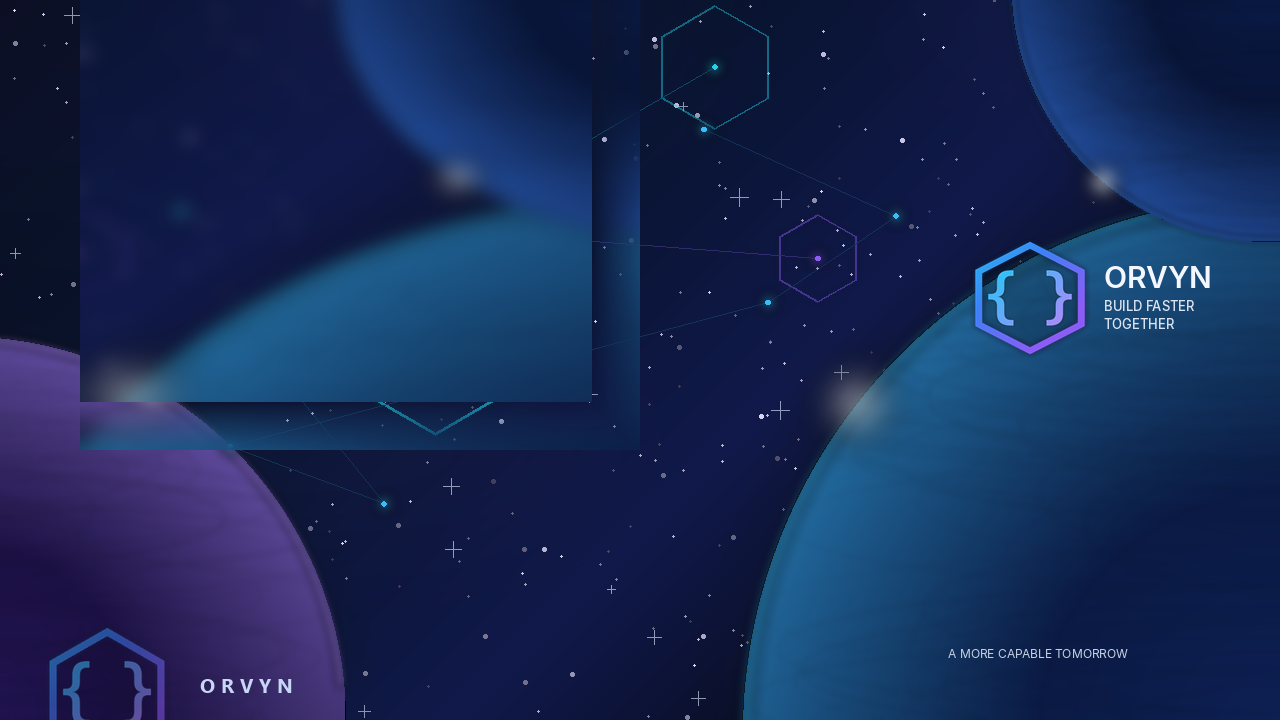
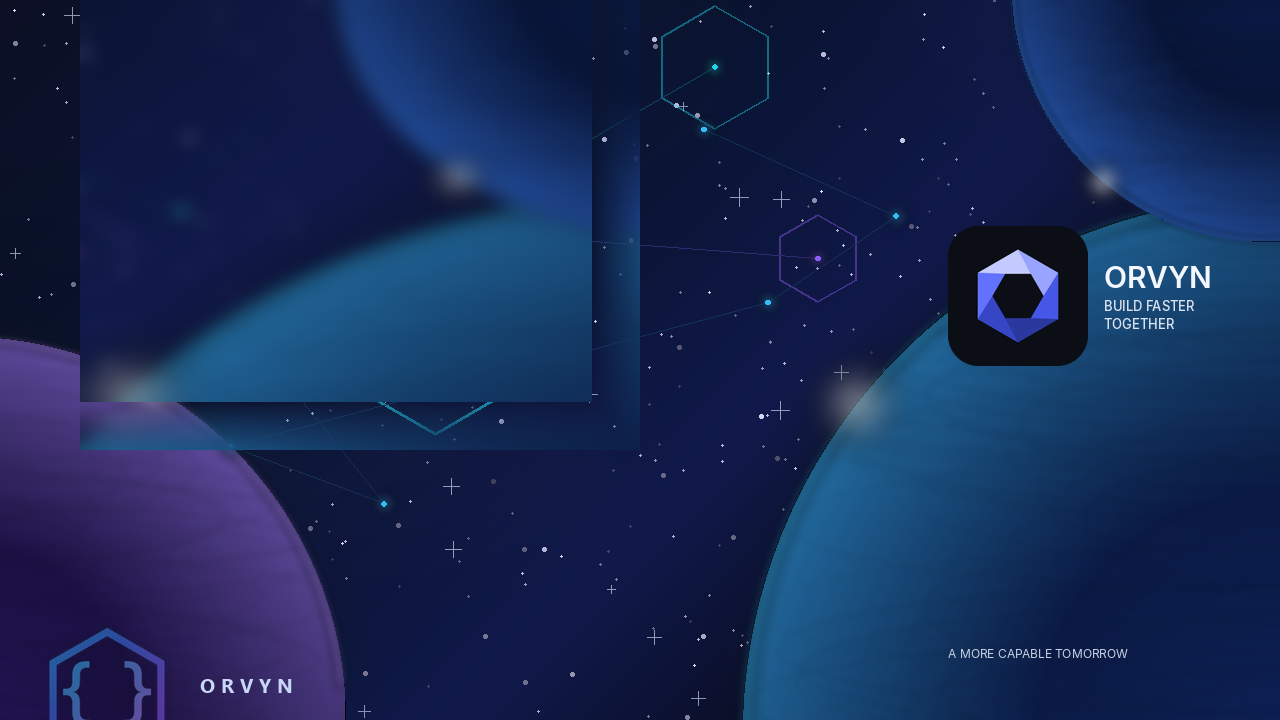
Use the brand mark on the cloud desktop and keep Take Control responsive.
The left panel painted as a black box without a compositor, and transparent dock icons turned into beige tiles. Pointer moves were queued ahead of clicks.

Changed region(s): [[0.7188, 0.3056, 0.875, 0.5194]]

diff --git a/apps/backend/src/desktop/sandboxDesktop.ts b/apps/backend/src/desktop/sandboxDesktop.ts
@@ -119,6 +119,25 @@ export function usesCachedFrame(quality: FrameQuality): boolean {
   return quality !== "high";
 }
 
+/** Serve a frame we already read instead of starting another docker exec. */
+export const MEMORY_FRAME_MS = 200;
+
+export function memoryFrameIsFresh(at: number, now: number, bytes: number): boolean {
+  return bytes > 1000 && now - at < MEMORY_FRAME_MS;
+}
+
+interface MemoryFrame {
+  jpeg: Buffer;
+  at: number;
+  pending?: Promise<Buffer | null>;
+}
+
+const memoryFrames = new Map<string, MemoryFrame>();
+
+function dropMemoryFrame(id: string): void {
+  memoryFrames.delete(id);
+}
+
 export async function startSandboxDesktop(opts: {
   tenantId: string;
   projectRoot?: string;
@@ -214,6 +233,7 @@ export async function startSandboxDesktop(opts: {
   session.status = "ready";
   session.startedAt = new Date().toISOString();
   sessions.set(id, session);
+  openInputPipe(session);
   return session;
 }
 
@@ -229,10 +249,41 @@ function qualityArgs(quality: FrameQuality): string[] {
 
 const frameInFlight = new Map<string, Promise<Buffer | null>>();
 
+async function pullContainerFrame(session: SandboxDesktopSession): Promise<Buffer | null> {
+  const cached = await dockerExec(session.containerId, ["timeout", "2", "cat", CACHED_FRAME_PATH], 3000);
+  const ready = jpegFromOutput(cached.stdout);
+  const slot = memoryFrames.get(session.id) ?? { jpeg: Buffer.alloc(0), at: 0 };
+  if (ready && ready.length > 1000) {
+    slot.jpeg = ready;
+    slot.at = Date.now();
+    memoryFrames.set(session.id, slot);
+    return ready;
+  }
+  return null;
+}
+
+function scheduleContainerFrame(session: SandboxDesktopSession): Promise<Buffer | null> {
+  const hit = memoryFrames.get(session.id);
+  if (hit?.pending) return hit.pending;
+  const pending = pullContainerFrame(session).finally(() => {
+    const cur = memoryFrames.get(session.id);
+    if (cur?.pending === pending) cur.pending = undefined;
+  });
+  const slot = hit ?? { jpeg: Buffer.alloc(0), at: 0 };
+  slot.pending = pending;
+  memoryFrames.set(session.id, slot);
+  return pending;
+}
+
 async function grabFrame(session: SandboxDesktopSession, quality: FrameQuality): Promise<Buffer | null> {
   if (usesCachedFrame(quality)) {
-    const cached = await dockerExec(session.containerId, ["timeout", "2", "cat", CACHED_FRAME_PATH], 3000);
-    const ready = jpegFromOutput(cached.stdout);
+    const hit = memoryFrames.get(session.id);
+    if (hit && memoryFrameIsFresh(hit.at, Date.now(), hit.jpeg.length)) return hit.jpeg;
+    if (hit && hit.jpeg.length > 1000) {
+      void scheduleContainerFrame(session);
+      return hit.jpeg;
+    }
+    const ready = await scheduleContainerFrame(session);
     if (ready && ready.length > 1000) return ready;
   }
   const viaXwd = await dockerExec(
@@ -402,18 +453,31 @@ interface InputPipe {
 
 const inputPipes = new Map<string, InputPipe>();
 const inputMode = new Map<string, "pipe" | "exec">();
-const pendingMove = new Map<string, string>();
-const moveTimer = new Map<string, ReturnType<typeof setTimeout>>();
 
 function dropInputPipe(id: string): void {
-  const timer = moveTimer.get(id);
-  if (timer) clearTimeout(timer);
-  moveTimer.delete(id);
-  pendingMove.delete(id);
   inputMode.delete(id);
   const pipe = inputPipes.get(id);
   inputPipes.delete(id);
   if (pipe && !pipe.proc.killed) pipe.proc.kill();
+}
+
+function openInputPipe(session: SandboxDesktopSession): void {
+  if (!session.containerId) return;
+  const existing = inputPipes.get(session.id);
+  if (existing && !existing.dead) return;
+  const proc = spawn("docker", ["exec", "-i", session.containerId, "/usr/local/bin/orvyn-input"], {
+    windowsHide: true,
+    stdio: ["pipe", "ignore", "ignore"],
+  });
+  const pipe: InputPipe = { proc, dead: false };
+  inputPipes.set(session.id, pipe);
+  inputMode.set(session.id, "pipe");
+  const markDead = () => {
+    pipe.dead = true;
+    if (inputPipes.get(session.id)?.proc === proc) inputMode.set(session.id, "exec");
+  };
+  proc.on("error", markDead);
+  proc.on("exit", markDead);
 }
 
 async function desktopInputMode(session: SandboxDesktopSession): Promise<"pipe" | "exec"> {
@@ -427,31 +491,13 @@ async function desktopInputMode(session: SandboxDesktopSession): Promise<"pipe" 
 
 function writeInputLine(session: SandboxDesktopSession, line: string): boolean {
   let pipe = inputPipes.get(session.id);
-  if (!pipe || pipe.dead) {
-    const proc = spawn("docker", ["exec", "-i", session.containerId, "/usr/local/bin/orvyn-input"], {
-      windowsHide: true,
-      stdio: ["pipe", "ignore", "ignore"],
-    });
-    pipe = { proc, dead: false };
-    inputPipes.set(session.id, pipe);
-    const markDead = () => {
-      pipe!.dead = true;
-      if (inputPipes.get(session.id)?.proc === proc) inputMode.set(session.id, "exec");
-    };
-    proc.on("error", markDead);
-    proc.on("exit", markDead);
-  }
-  if (pipe.dead || !pipe.proc.stdin) return false;
-  return pipe.proc.stdin.write(`${line}\n`);
-}
-
-function flushMove(session: SandboxDesktopSession): void {
-  const timer = moveTimer.get(session.id);
-  if (timer) clearTimeout(timer);
-  moveTimer.delete(session.id);
-  const line = pendingMove.get(session.id);
-  pendingMove.delete(session.id);
-  if (line) writeInputLine(session, line);
+  if (!pipe || pipe.dead) openInputPipe(session);
+  pipe = inputPipes.get(session.id);
+  const stdin = pipe?.proc.stdin;
+  if (!pipe || pipe.dead || !stdin || stdin.destroyed) return false;
+  // A false return means the buffer is full. The line is still queued.
+  stdin.write(`${line}\n`);
+  return true;
 }
 
 async function sandboxAct(
@@ -468,24 +514,16 @@ async function sandboxAct(
     deltaY: Number(args.deltaY ?? 0),
   });
   if (line == null) return type === "type" ? true : false;
+  // Pointer-move spam was queued ahead of clicks, so Take Control felt frozen.
+  // Clicks already carry the coordinates. Do not send a move for every pixel.
+  if (type === "move") return true;
 
-  if ((await desktopInputMode(session)) === "pipe") {
-    if (type === "move") {
-      pendingMove.set(session.id, line);
-      if (!moveTimer.has(session.id)) {
-        moveTimer.set(session.id, setTimeout(() => flushMove(session), 16));
-      }
-      return true;
-    }
-    flushMove(session);
-    return writeInputLine(session, line);
-  }
+  if ((await desktopInputMode(session)) === "pipe" && writeInputLine(session, line)) return true;
 
   let cmd: string[] = [];
   switch (type) {
     case "move":
-      cmd = ["xdotool", "mousemove", String(x), String(y)];
-      break;
+      return true;
     case "click":
       cmd = ["xdotool", "mousemove", String(x), String(y), "click", "1"];
       break;
@@ -576,6 +614,7 @@ export async function stopSandboxDesktop(session: SandboxDesktopSession): Promis
   session.status = "ended";
   session.controlOwner = "none";
   dropInputPipe(session.id);
+  dropMemoryFrame(session.id);
   exec(`docker rm -f ${session.containerId}`, { windowsHide: true }, () => {
     sessions.delete(session.id);
   });
@@ -603,5 +642,6 @@ export function listSandboxSessions(tenantId: string): SandboxDesktopSession[] {
 
 export function resetSandboxSessionsForTests(): void {
   for (const id of inputPipes.keys()) dropInputPipe(id);
+  memoryFrames.clear();
   sessions.clear();
 }

diff --git a/apps/desktop/src/renderer/components/workspace/DesktopView.tsx b/apps/desktop/src/renderer/components/workspace/DesktopView.tsx
@@ -17,7 +17,7 @@ import { apiUrl, authHeaders } from "../../connection";
 import { onConnectionFacts } from "../../connectionRuntime";
 import { deriveCloudConnectionState } from "../../connectionState";
 import { letterboxRect, remoteToClient, type Rect } from "../../desktopMapping";
-import { FRAME_REQUEST_MS, gatePointerMove, imageKind, releasePointerMove, sessionCanStream, shouldCoverFrame, type MoveGate } from "../../desktopStream";
+import { FRAME_REQUEST_MS, imageKind, sessionCanStream, shouldCoverFrame } from "../../desktopStream";
 import { OrionCursorOverlay } from "./OrionCursorOverlay";
 import { emptyBody, emptyTitle, ghostBtn, iconBtn } from "./workspaceChrome";
 
@@ -87,8 +87,6 @@ export function DesktopView({
   const canvasRef = useRef<HTMLCanvasElement | null>(null);
   const lastFrameAt = useRef(0);
   const toastTimer = useRef<ReturnType<typeof setTimeout> | null>(null);
-  const moveGate = useRef<MoveGate>({ inFlight: false, pending: null });
-
   function showToast(msg: string) {
     setToast(msg);
     if (toastTimer.current) clearTimeout(toastTimer.current);
@@ -272,6 +270,7 @@ export function DesktopView({
       controlOwner: owner,
       status: owner === "user" ? "user_control" : current.status === "user_control" ? "ready" : current.status,
     } : current);
+    if (owner === "user") viewRef.current?.focus();
     const { ok, data } = await post("/desktop/control", { owner });
     if (!ok) {
       setError(data.error ?? "Control change blocked.");
@@ -295,21 +294,6 @@ export function DesktopView({
       viewHeight: imageRect.h || sessionRef.current?.height,
       ...extra,
     });
-  }
-
-  function emitMove(point: { x: number; y: number }) {
-    const step = gatePointerMove(moveGate.current, point);
-    moveGate.current = step.gate;
-    if (!step.send) return;
-    void (async () => {
-      let send: { x: number; y: number } | null = step.send;
-      while (send) {
-        await sendInput("move", send);
-        const released = releasePointerMove(moveGate.current);
-        moveGate.current = released.gate;
-        send = released.send;
-      }
-    })();
   }
 
   /** clientX/Y → coords inside the displayed image (letterbox-correct). */
@@ -491,10 +475,11 @@ export function DesktopView({
         flex: 1, minWidth: 0, minHeight: 0, width: "100%", position: "relative", overflow: "hidden",
         background: "#04060f",
         outline: "none",
+        cursor: "default",
       }}
       tabIndex={user ? 0 : -1}
-      onMouseMove={user ? (e) => { const p = imagePoint(e); if (p) emitMove(p); } : undefined}
-      onClick={user ? (e) => { e.currentTarget.focus(); const p = imagePoint(e); if (p) void sendInput("click", p); } : undefined}
+      onMouseDown={user ? (e) => { e.currentTarget.focus(); } : undefined}
+      onClick={user ? (e) => { const p = imagePoint(e); if (p) void sendInput("click", p); } : undefined}
       onContextMenu={user ? (e) => { e.preventDefault(); const p = imagePoint(e); if (p) void sendInput("rightclick", p); } : undefined}
       onDoubleClick={user ? (e) => { const p = imagePoint(e); if (p) void sendInput("dblclick", p); } : undefined}
       onKeyDown={user ? (e) => { e.preventDefault(); void sendInput("key", { key: e.key }); } : undefined}
@@ -516,7 +501,7 @@ export function DesktopView({
         }}
       />
       {!frameDrawn && (
-        <div style={{ ...emptyBody(), position: "absolute", inset: 0, display: "flex", flexDirection: "column", alignItems: "center", justifyContent: "center", gap: 8 }}>
+        <div style={{ ...emptyBody(), position: "absolute", inset: 0, display: "flex", flexDirection: "column", alignItems: "center", justifyContent: "center", gap: 8, pointerEvents: "none" }}>
           <div>Connecting to Desktop…</div>
           <div style={{ fontSize: 10, color: "var(--orvyn-text-muted)" }}>{streamNote ?? "Streaming the live virtual desktop"}</div>
         </div>

diff --git a/apps/backend/src/desktop/sandboxDesktop.frame.test.ts b/apps/backend/src/desktop/sandboxDesktop.frame.test.ts
@@ -1,6 +1,6 @@
 import { test } from "node:test";
 import assert from "node:assert/strict";
-import { CACHED_FRAME_PATH, frameCaptureCommand, formatDesktopCommand, jpegFromOutput, pngFromOutput, usesCachedFrame } from "./sandboxDesktop";
+import { CACHED_FRAME_PATH, frameCaptureCommand, formatDesktopCommand, jpegFromOutput, memoryFrameIsFresh, pngFromOutput, usesCachedFrame } from "./sandboxDesktop";
 
 test("frame capture grabs the root window instead of waiting for a click", () => {
   const cmd = frameCaptureCommand("auto");
@@ -12,6 +12,9 @@ test("frame capture grabs the root window instead of waiting for a click", () =>
   assert.equal(usesCachedFrame("low"), true);
   assert.equal(usesCachedFrame("high"), false);
   assert.equal(CACHED_FRAME_PATH, "/tmp/orvyn-frame.jpg");
+  assert.equal(memoryFrameIsFresh(1_000, 1_100, 5_000), true);
+  assert.equal(memoryFrameIsFresh(1_000, 1_300, 5_000), false);
+  assert.equal(memoryFrameIsFresh(1_000, 1_050, 20), false);
 });
 
 test("desktop commands stay on one line the input reader can trust", () => {

diff --git a/infrastructure/desktop/home.html b/infrastructure/desktop/home.html
@@ -33,7 +33,7 @@
 </style>
 </head>
 <body>
-  <img class="mark" src="orvyn-mark.png" alt="ORVYN">
+  <img class="mark" src="orvyn-brand.png" alt="ORVYN">
   <h1>ORVYN</h1>
   <div class="sub">Your Code. Your Models. Your AI.</div>
   <div class="cards">

diff --git a/infrastructure/desktop/render-assets.py b/infrastructure/desktop/render-assets.py
@@ -31,9 +31,10 @@ def session_wallpaper() -> None:
         draw_mask.line([(0, 450 - 48 + i), (560, 450 - 48 + i)], fill=alpha)
     base.paste(patch, (80, 0), mask)
 
-    mark = Image.open(ASSETS / "orvyn-mark.png").convert("RGBA")
-    mark = mark.crop(mark.getbbox()).resize((124, 124), Image.Resampling.LANCZOS)
-    base.alpha_composite(mark, (968, 236))
+    brand_path = ASSETS / "orvyn-brand.png"
+    mark = Image.open(brand_path if brand_path.exists() else ASSETS / "orvyn-mark.png").convert("RGBA")
+    mark = mark.crop(mark.getbbox()).resize((140, 140), Image.Resampling.LANCZOS)
+    base.alpha_composite(mark, (948, 226))
     draw = ImageDraw.Draw(base)
     draw.text((1104, 258), "ORVYN", font=face(SANS, 30), fill=(244, 247, 255, 255))
     draw.text((1104, 298), "BUILD FASTER", font=face(MED, 13), fill=(220, 228, 242, 240))
@@ -42,48 +43,41 @@ def session_wallpaper() -> None:
     base.convert("RGB").save(ASSETS / "orvyn-session.png", "PNG", optimize=True)
 
 
-def glyph(draw: ImageDraw.ImageDraw, kind: str, color: tuple[int, int, int, int]) -> None:
-    if kind == "home":
-        draw.polygon([(32, 26), (12, 42), (52, 42)], fill=color)
-        draw.rectangle([18, 40, 46, 56], fill=color)
-        draw.rectangle([28, 46, 36, 56], fill=(11, 16, 32, 255))
-    elif kind == "folder":
-        draw.rounded_rectangle([10, 24, 54, 54], radius=5, fill=color)
-        draw.polygon([(10, 28), (20, 16), (34, 16), (34, 26), (10, 26)], fill=color)
-    elif kind == "trash":
-        draw.rectangle([22, 14, 42, 18], fill=color)
-        draw.rectangle([16, 18, 48, 22], fill=color)
-        draw.rounded_rectangle([18, 24, 46, 54], radius=3, fill=color)
+TILE = (12, 20, 40)
+
+
+def opaque_icon(kind: str) -> Image.Image:
+    """Fully opaque tiles. tint2 has no compositor, so transparent PNGs paint as beige blocks."""
+    img = Image.new("RGB", (64, 64), TILE)
+    draw = ImageDraw.Draw(img)
+    if kind == "firefox":
+        draw.ellipse([6, 6, 58, 58], fill=(0, 96, 223))
+        draw.pieslice([6, 6, 58, 58], 210, 20, fill=(255, 113, 57))
+        draw.ellipse([24, 24, 40, 40], fill=(255, 255, 255))
     elif kind == "terminal":
-        draw.rounded_rectangle([6, 10, 58, 54], radius=10, fill=(15, 23, 42, 255))
-        draw.line([(18, 26), (30, 34), (18, 42)], fill=(56, 189, 248, 255), width=3)
-        draw.line([(34, 42), (46, 42)], fill=(226, 232, 240, 255), width=3)
+        draw.rounded_rectangle([5, 8, 59, 56], radius=8, fill=(15, 23, 42))
+        draw.line([(16, 22), (28, 32), (16, 42)], fill=(56, 189, 248), width=3)
+        draw.line([(32, 42), (48, 42)], fill=(226, 232, 240), width=3)
+    elif kind == "folder":
+        draw.rounded_rectangle([8, 22, 56, 52], radius=5, fill=(59, 130, 246))
+        draw.polygon([(8, 26), (18, 14), (34, 14), (38, 24), (8, 24)], fill=(147, 197, 253))
+    elif kind == "code":
+        draw.rounded_rectangle([4, 4, 60, 60], radius=12, fill=(37, 99, 235))
+        draw.line([(28, 18), (16, 32), (28, 46)], fill=(255, 255, 255), width=3)
+        draw.line([(36, 18), (48, 32), (36, 46)], fill=(255, 255, 255), width=3)
     elif kind == "grid":
         for row in range(3):
             for col in range(3):
                 x = 14 + col * 14
                 y = 14 + row * 14
-                draw.rounded_rectangle([x, y, x + 8, y + 8], radius=2, fill=color)
-    elif kind == "code":
-        draw.rounded_rectangle([8, 8, 56, 56], radius=10, fill=(37, 99, 235, 255))
-        draw.line([(26, 20), (16, 32), (26, 44)], fill=(255, 255, 255, 255), width=3)
-        draw.line([(38, 20), (48, 32), (38, 44)], fill=(255, 255, 255, 255), width=3)
+                draw.rounded_rectangle([x, y, x + 9, y + 9], radius=2, fill=(236, 242, 250))
+    return img
 
 
 def icons() -> None:
     ICONS.mkdir(parents=True, exist_ok=True)
-    white = (236, 242, 250, 255)
-    for name, color in {
-        "home": white,
-        "folder": (96, 165, 250, 255),
-        "trash": white,
-        "terminal": white,
-        "grid": white,
-        "code": white,
-    }.items():
-        img = Image.new("RGBA", (64, 64), (0, 0, 0, 0))
-        glyph(ImageDraw.Draw(img), name, color)
-        img.save(ICONS / f"{name}.png", "PNG")
+    for name in ("firefox", "terminal", "folder", "code", "grid"):
+        opaque_icon(name).save(ICONS / f"{name}.png", "PNG")
 
 
 def main() -> None:
